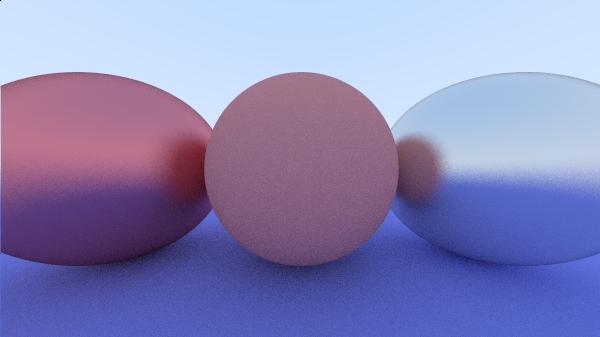
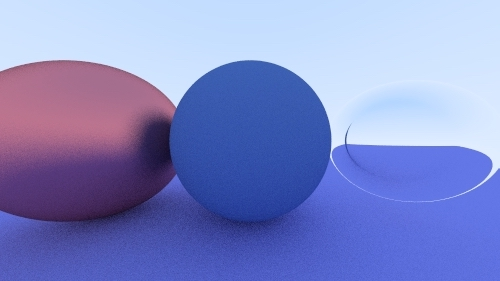
feat: dialectris now available, basically glass and reflectance for glass

diff --git a/material.h b/material.h
@@ -8,50 +8,90 @@
 struct hit_record;
 
 class material {
-   public:
-      virtual bool scatter(
-	    const ray &r_in,
-	    const hit_record &rec,
-	    color &attenuation,
-	    ray &scattered) const = 0;
+  public:
+    virtual bool scatter(
+	const ray &r_in,
+	const hit_record &rec,
+	color &attenuation,
+	ray &scattered) const = 0;
 };
 
 class lambertian : public material {
-   public:
-      lambertian(const color &a) : albedo(a) {}
+  public:
+    lambertian(const color &a) : albedo(a) {}
 
-      virtual bool scatter(const ray &r_in, const hit_record &rec, color &attenuation, ray &scattered) const override {
-	 auto scatter_direction = rec.normal + random_unit_vector();
+    virtual bool scatter(const ray &r_in, const hit_record &rec, color &attenuation, ray &scattered) const override {
+      auto scatter_direction = rec.normal + random_unit_vector();
 
-	 // Catch if scatter direction becomes zero due to the random unit
-	 // vector cancelling out the normal :(
-	 if (scatter_direction.near_zero())
-	    scatter_direction = rec.normal;
+      // Catch if scatter direction becomes zero due to the random unit
+      // vector cancelling out the normal :(
+      if (scatter_direction.near_zero())
+	scatter_direction = rec.normal;
 
-	 scattered = ray(rec.p, scatter_direction);
-	 attenuation = albedo;
-	 return true;
-      }
+      scattered = ray(rec.p, scatter_direction);
+      attenuation = albedo;
+      return true;
+    }
 
-   public:
-      color albedo;
+  public:
+    color albedo;
 };
 
 class metal : public material {
-   public:
-      metal(const color &a, float fuzzyness) : albedo(a), fuzz(fuzzyness < 1 ? fuzzyness : 1) {}
+  public:
+    metal(const color &a, float fuzzyness) : albedo(a), fuzz(fuzzyness < 1 ? fuzzyness : 1) {}
 
-      virtual bool scatter(
-	    const ray &r_in, const hit_record &rec, color &attenuation, ray &scattered
-	    ) const override {
-	 vec3 reflected = reflect(unit_vector(r_in.direction()), rec.normal);
-	 scattered = ray(rec.p, reflected + fuzz * random_in_unit_sphere());
-	 attenuation = albedo;
-	 return (dot(scattered.direction(), rec.normal) > 0);
-      }
+    virtual bool scatter(
+	const ray &r_in, const hit_record &rec, color &attenuation, ray &scattered
+	) const override {
+      vec3 reflected = reflect(unit_vector(r_in.direction()), rec.normal);
+      scattered = ray(rec.p, reflected + fuzz * random_in_unit_sphere());
+      attenuation = albedo;
+      return (dot(scattered.direction(), rec.normal) > 0);
+    }
 
-   public:
-      color albedo;
-      float fuzz;
+  public:
+    color albedo;
+    float fuzz;
+};
+
+class dialectric : public material {
+  public:
+    dialectric(double index_of_refraction) : ir(index_of_refraction) {}
+
+    virtual bool scatter(
+	const ray &r_in, const hit_record &rec, color &attenuation, ray &scattered
+	) const override {
+      attenuation = color(1.0, 1.0, 1.0);
+      float refraction_ratio = rec.front_face ? (1.0 / ir) : ir;
+
+      vec3 unit_direction = unit_vector(r_in.direction());
+      vec3 refracted = refract(unit_direction, rec.normal, refraction_ratio);
+
+      float cos_theta = fmin(dot(-unit_direction, rec.normal), 1.0);
+      float sin_theta = sqrt(1.0 - cos_theta*cos_theta);
+
+      bool cannot_refract = refraction_ratio * sin_theta > 1.0;
+      vec3 direction;
+
+      if (cannot_refract || reflectance(cos_theta, refraction_ratio) > random_float())
+	direction = reflect(unit_direction, rec.normal);
+      else
+	direction = refract(unit_direction, rec.normal, refraction_ratio);
+
+      scattered = ray(rec.p, refracted);
+      return true;
+    }
+
+  public:
+    float ir; // Index of refraction
+  private:
+    static float reflectance(float cosine, float ref_indx) {
+      // Use Schlicks approximation for reflectance
+      float r0 = (1 - ref_indx) / (1 + ref_indx);
+      r0 *= r0;
+      return r0 + (1 - r0) * pow((1 - cosine), 5);
+    }
+
 };
 #endif

diff --git a/main.cpp b/main.cpp
@@ -169,8 +169,9 @@ int main(int argc, char **argv) {
   shared_ptr<lambertian> material_ground =
     make_shared<lambertian>(color(0.26, 0.29, 0.81));
   shared_ptr<lambertian> material_center =
-    make_shared<lambertian>(color(0.7, 0.3, 0.3));
-  shared_ptr<metal> material_left =
+    make_shared<lambertian>(color(0.1, 0.2, 0.5));
+  shared_ptr<dialectric> material_left =
+    make_shared<dialectric>(1.5);
     make_shared<metal>(color(0.8, 0.8, 0.8), 0.3);
   shared_ptr<metal> material_right =
     make_shared<metal>(color(0.81, 0.26, 0.31), 0.5);
@@ -178,7 +179,7 @@ int main(int argc, char **argv) {
   world.add(
       make_shared<sphere>(point3(0.0, -100.5, -1.0), 100.0, material_ground));
   world.add(make_shared<sphere>(point3(0.0, 0.0, -1.0), 0.5, material_center));
-  world.add(make_shared<sphere>(point3(-1.0, 0.0, -1.0), 0.5, material_left));
+  world.add(make_shared<sphere>(point3(-1.0, 0.0, -1.0), -0.4, material_left));
   world.add(make_shared<sphere>(point3(1.0, 0.0, -1.0), 0.5, material_right));
 
   // camera
@@ -200,7 +201,7 @@ int main(int argc, char **argv) {
       }
 
       memcpy(
-	  &image_content[((image_width * image_height) - (i * image_width + j)) * 3],
+	  &image_content[((i * image_width + j)) * 3],
 	  get_pixel(pixel_color, samples_per_pixel),
 	  sizeof(unsigned char) * 3);
     }

diff --git a/vec3.h b/vec3.h
@@ -164,6 +164,14 @@ inline vec3 reflect(const vec3 &v, const vec3 &n) {
    return v - 2 * dot(v, n) * n;
 }
 
+vec3 refract(const vec3 &uv, const vec3 &n, double etai_over_etat) {
+  auto cos_theta = fmin(dot(-uv, n), 1.0);
+  vec3 r_out_perp = etai_over_etat * (uv + cos_theta * n);
+  vec3 r_out_parallel = -sqrt(fabs(1.0 - r_out_perp.length_squared())) * n;
+
+  return r_out_perp + r_out_parallel;
+}
+
 #endif
 
 
